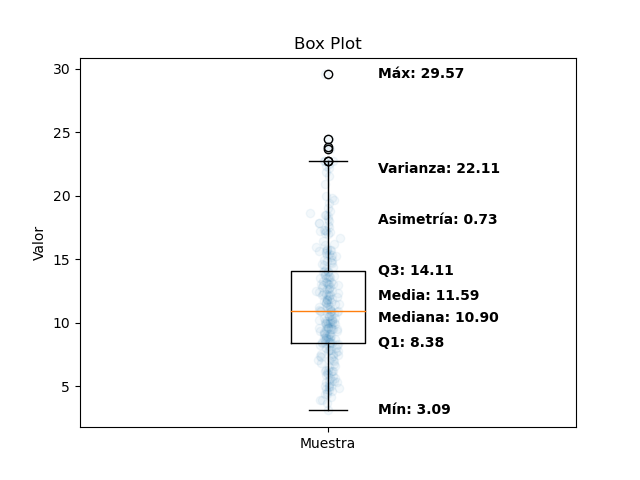
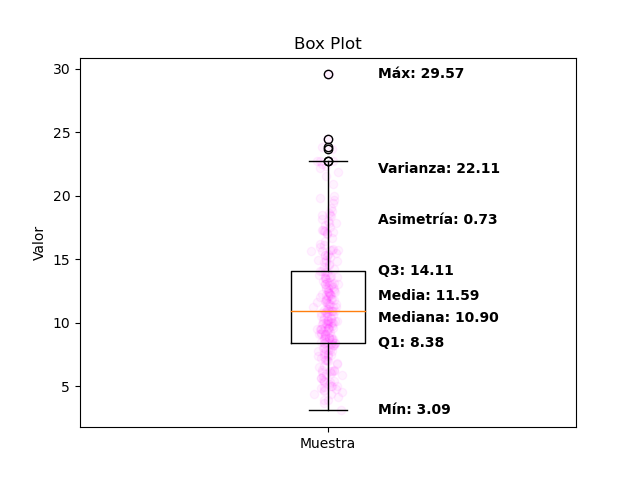
Graphs format

Changed region(s): [[0.4688, 0.4062, 0.5312, 0.8438], [0.5, 0.3125, 0.5312, 0.375]]

diff --git a/src/compare_frecuency.py b/src/compare_frecuency.py
@@ -24,9 +24,10 @@ def plot_histogram_with_overlay(sample, density_func, distr):
     plt.hist(x, bins=bins, density=True, alpha=0.3, color='cyan', edgecolor='white', label=distr, weights=y)
 
     # Plot settings
-    plt.xlabel('Value')
-    plt.ylabel('Density')
+    plt.xlabel('Valor')
+    plt.ylabel('Frecuencia relativa')
     plt.legend()
+    plt.title('Comparación con la frecuencia teórica')
     plt.savefig('../plots/compared_frecuency_'+ distr)
     plt.clf()
 

diff --git a/src/histogram.py b/src/histogram.py
@@ -5,11 +5,11 @@ from parse_sample import parse_sample
 
 def plot_histogram(values):
     # Create the histogram
-    plt.hist(values, bins='auto',  density=True, edgecolor='white')
+    plt.hist(values, bins='auto',  density=True, edgecolor='white',alpha=0.6, color='magenta')
 
     # Set plot properties
     plt.xlabel('Valor')
-    plt.ylabel('Frecuencia')
+    plt.ylabel('Frecuencia relativa')
     plt.title('Histograma')
 
     # Show the plot

diff --git a/src/box_plot.py b/src/box_plot.py
@@ -39,7 +39,7 @@ def create_box_plot(data):
 
     # Create the box plot
     plt.boxplot(data)
-    plt.scatter(np.random.normal(1, 0.01, len(data)), data, alpha=0.05)
+    plt.scatter(np.random.normal(1, 0.01, len(data)), data, alpha=0.05, color='magenta')
     
     # Set plot properties
     plt.ylabel('Valor')

diff --git a/src/scattle_diagram.py b/src/scattle_diagram.py
@@ -6,7 +6,7 @@ def plot_points(data):
     y = data[1:]
 
     # Plot the graph
-    plt.scatter(x, y, alpha=0.3)
+    plt.scatter(x, y, alpha=0.3, color='magenta')
     plt.xlabel('Xi')
     plt.ylabel('Xi+1')
     plt.title('Diagrama de dispersión')
